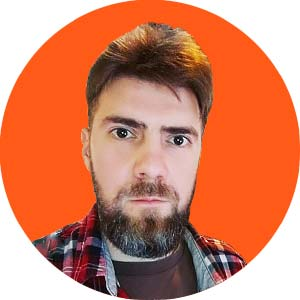
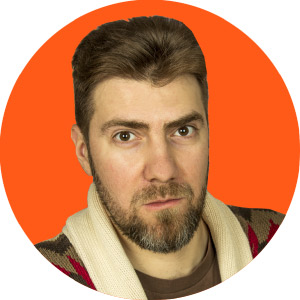
Added new pic and Behance link

diff --git a/src/main.css b/src/main.css
@@ -496,7 +496,7 @@ h6 {
 }
 
 h1 {
-  font-size: 4.0rem;
+  font-size: 3.5rem;
   line-height: 1.2;
 }
 
@@ -533,7 +533,7 @@ h6 {
 
 @media (min-width: 40rem) {
   h1 {
-    font-size: 4.0rem;
+    font-size: 3.5rem;
   }
   h2 {
     font-size: 2.4rem;
@@ -573,8 +573,7 @@ img {
 /* Milligram overrides */
 
 dt {
-  margin-bottom: 0rem;
-  font-size: 1.5rem;
+  margin-bottom: 1rem;
 }
 
 @media (max-width: 40rem) {
@@ -625,7 +624,6 @@ dt {
 
 h1 {
   text-transform: none;
-  font-size: 4.0rem;
   letter-spacing: .02em;
   word-spacing: 0.1em;
   margin-top: 2rem;
@@ -708,9 +706,16 @@ header .column h2 + div a:not(:last-of-type),
   border-radius: .3em;
   padding-left: 2.5rem;
   padding-right: 2.5rem;
-  margin-left: calc(20% - 1.5rem);
   margin-top: 1.0rem;
   margin-bottom: 2.0rem;
+}
+
+#summary .column-66 {
+  margin-left: calc(20% - 1.5rem);
+}
+
+#summary dt {
+  font-size: 1.5rem;
 }
 
 @media (max-width: 40rem) {
@@ -762,9 +767,10 @@ q-1 1 -1 2q-1 2 -1 3q-1 22 -13 36q0 -1 -1 -2v-2zM592 313q135 54 284 81q-2 1 -13 
 d="M1468 1156q28 -28 48 -76t20 -88v-1152q0 -40 -28 -68t-68 -28h-1344q-40 0 -68 28t-28 68v1600q0 40 28 68t68 28h896q40 0 88 -20t76 -48zM1024 1400v-376h376q-10 29 -22 41l-313 313q-12 12 -41 22zM1408 -128v1024h-416q-40 0 -68 28t-28 68v416h-768v-1536h1280z
 M233 768v-107h70l164 -661h159l128 485q7 20 10 46q2 16 2 24h4l3 -24q1 -3 3.5 -20t5.5 -26l128 -485h159l164 661h70v107h-300v-107h90l-99 -438q-5 -20 -7 -46l-2 -21h-4q0 3 -0.5 6.5t-1.5 8t-1 6.5q-1 5 -4 21t-5 25l-144 545h-114l-144 -545q-2 -9 -4.5 -24.5
 t-3.5 -21.5l-4 -21h-4l-2 21q-2 26 -7 46l-99 438h90v107h-300z" />
-    <glyph glyph-name="linkedin" unicode="&#xf0e1;"
-d="M349 911v-991h-330v991h330zM370 1217q1 -73 -50.5 -122t-135.5 -49h-2q-82 0 -132 49t-50 122q0 74 51.5 122.5t134.5 48.5t133 -48.5t51 -122.5zM1536 488v-568h-329v530q0 105 -40.5 164.5t-126.5 59.5q-63 0 -105.5 -34.5t-63.5 -85.5q-11 -30 -11 -81v-553h-329
-q2 399 2 647t-1 296l-1 48h329v-144h-2q20 32 41 56t56.5 52t87 43.5t114.5 15.5q171 0 275 -113.5t104 -332.5z" />
+    <glyph glyph-name="_409" unicode="&#xf1b4;" horiz-adv-x="2048"
+d="M1848 1197h-511v-124h511v124zM1596 771q-90 0 -146 -52.5t-62 -142.5h408q-18 195 -200 195zM1612 186q63 0 122 32t76 87h221q-100 -307 -427 -307q-214 0 -340.5 132t-126.5 347q0 208 130.5 345.5t336.5 137.5q138 0 240.5 -68t153 -179t50.5 -248q0 -17 -2 -47h-658
+q0 -111 57.5 -171.5t166.5 -60.5zM277 236h296q205 0 205 167q0 180 -199 180h-302v-347zM277 773h281q78 0 123.5 36.5t45.5 113.5q0 144 -190 144h-260v-294zM0 1282h594q87 0 155 -14t126.5 -47.5t90 -96.5t31.5 -154q0 -181 -172 -263q114 -32 172 -115t58 -204
+q0 -75 -24.5 -136.5t-66 -103.5t-98.5 -71t-121 -42t-134 -13h-611v1260z" />
     </font>
   </defs>
 </svg>) format('svg');
@@ -832,6 +838,6 @@ q2 399 2 647t-1 296l-1 48h329v-144h-2q20 32 41 56t56.5 52t87 43.5t114.5 15.5q171
   content: "\f1c2";
 }
 
-.fa-linkedin:before {
-  content: "\f0e1";
+.fa-behance:before {
+  content: "\f1b4";
 }

diff --git a/ru/index.html b/ru/index.html
@@ -23,13 +23,13 @@
             <img src="../assets/images/avatar-dm.jpg" class="img-thumbnail" />
             <h1>Дмитрий Марков</h1>
             <h2>Фронтэнд разработчик / Креативный&nbsp;технолог</h2>
-            <div><i class="fa fa-twitter"></i> <a href="https://twitter.com/damarkov">Twitter</a> <i class="fa fa-github"></i> <a href="https://github.com/DmitryMarkov">GitHub</a> <i class="fa fa-linkedin"></i> <a href="https://www.linkedin.com/profile/in/dmitrymarkov">LinkedIn</a></div>
+            <div><i class="fa fa-twitter"></i> <a href="https://twitter.com/damarkov">Twitter</a> <i class="fa fa-github"></i> <a href="https://github.com/DmitryMarkov">GitHub</a> <i class="fa fa-behance"></i> <a href="https://www.behance.net/damarkov">Behance</a></div>
           </div>
         </div>
       </header>
       <section id="summary">
         <div class="row">
-          <div class="column column-66 column-offset-20">
+          <div class="column column-80 column-offset-10">
             <dl>
               <dt><strong>Профессиональный веб-разработчик с более чем 10-летним стажем</strong></dt>
               <dt>Большой опыт в <b>разработке пользовательских интерфейсов</b> сайтов, мобильных и десктопных приложений</dt>
@@ -145,8 +145,8 @@
             <div class="column column-80 column-offset-20">
               <h4>Язык</h4>
               <dl>
-                <dt>английский &mdash; профессиональное владение (Upper-intermediate, B2)</dt>
-                <dt>русский &mdash; родной</dt>
+                <dt>Английский &mdash; профессиональное владение (Upper-intermediate, B2)</dt>
+                <dt>Русский &mdash; родной</dt>
               </dl>
               </p>
             </div>
@@ -161,7 +161,7 @@
           <div class="row row-top">
             <div class="column column-80 column-offset-20">
               <h4>Интересы</h4>
-              <p>Профессиональный рост, дартс
+              <p>Профессиональный рост, дартс, изучение продукции главной экспортной категории шотландского острова Islay
               </p>
             </div>
           </div>

diff --git a/index.html b/index.html
@@ -23,7 +23,7 @@
             <img src="assets/images/avatar-dm.jpg" class="img-thumbnail" />
             <h1>Dmitry&nbsp;Markov</h1>
             <h2>Frontend Web Developer / Creative&nbsp;Technologist</h2>
-            <div><i class="fa fa-twitter"></i> <a href="https://twitter.com/damarkov">Twitter</a> <i class="fa fa-github"></i> <a href="https://github.com/DmitryMarkov">GitHub</a> <i class="fa fa-linkedin"></i> <a href="https://www.linkedin.com/profile/in/dmitrymarkov">LinkedIn</a></div>
+            <div><i class="fa fa-twitter"></i> <a href="https://twitter.com/damarkov">Twitter</a> <i class="fa fa-github"></i> <a href="https://github.com/DmitryMarkov">GitHub</a> <i class="fa fa-behance"></i> <a href="https://www.behance.net/damarkov">Behance</a></div>
           </div>
         </div>
       </header>
